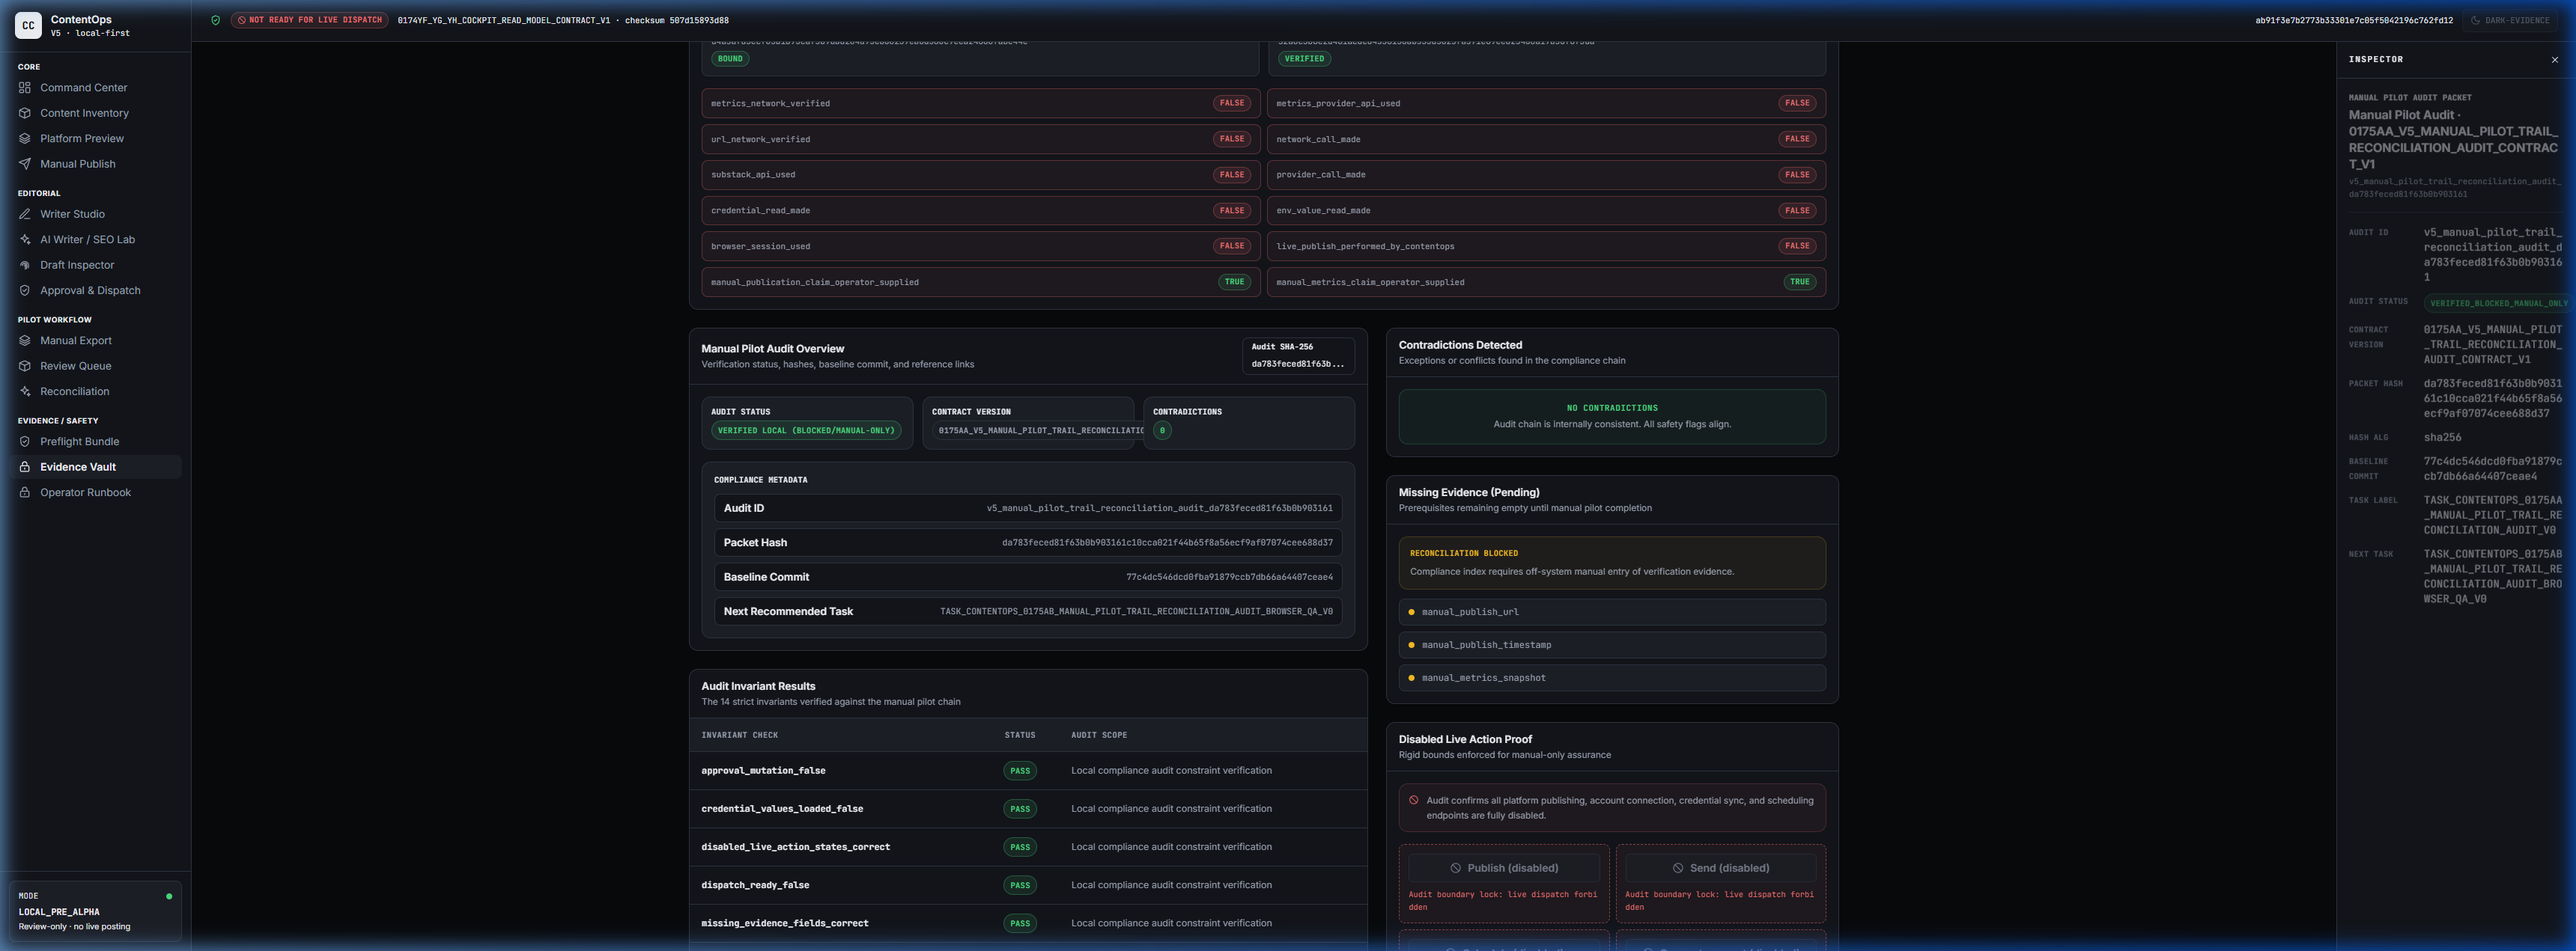
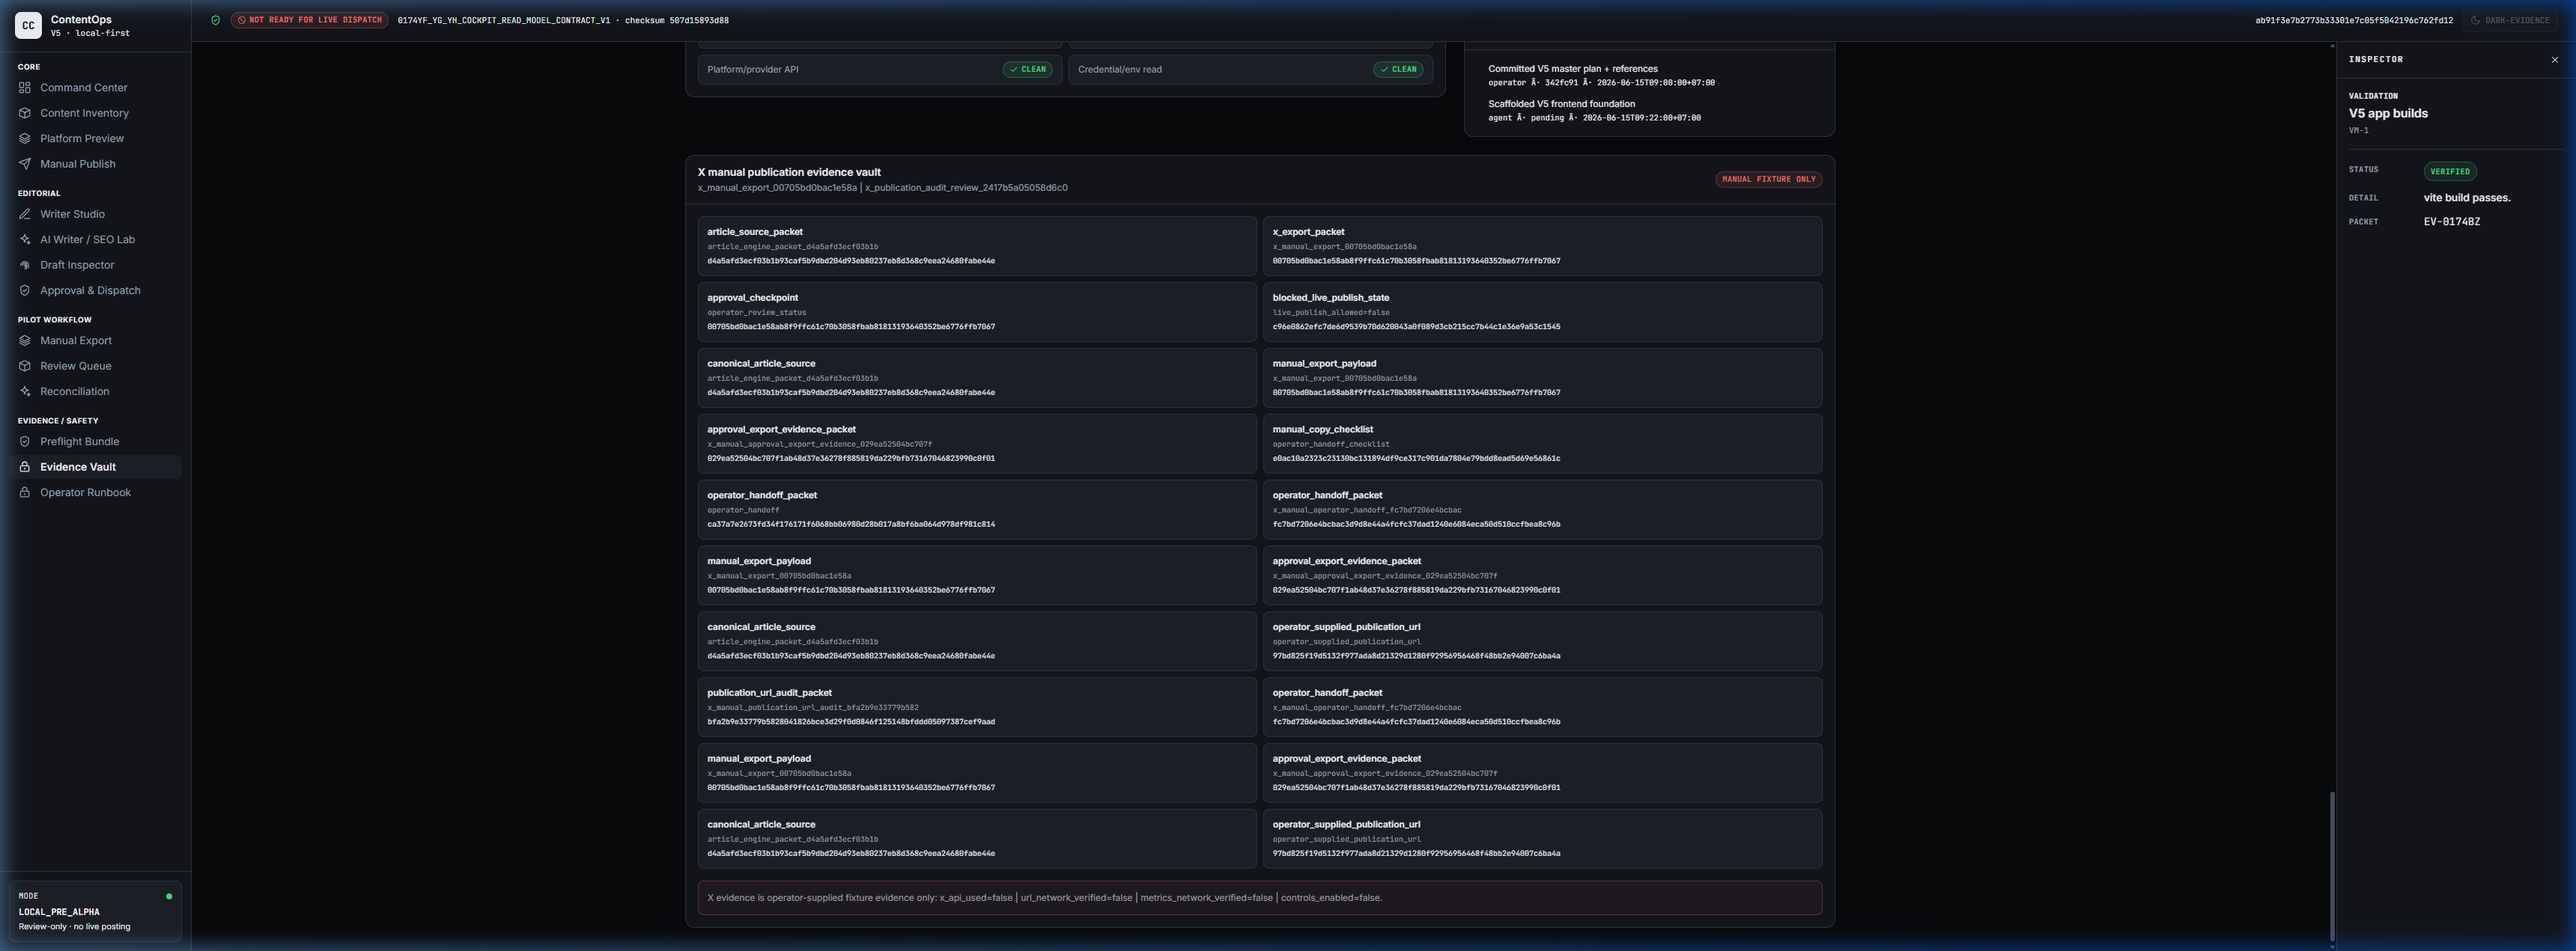
fix: repair X manual evidence QA artifacts

diff --git a/ui/contentops_v5/src/views/EvidenceVault.tsx b/ui/contentops_v5/src/views/EvidenceVault.tsx
@@ -654,7 +654,7 @@ export function EvidenceVault() {
 
       <Panel
         title="X manual publication evidence vault"
-        subtitle={`${xManualExportPacket.export_packet_id} ? ${xPublicationAuditReviewMetricsSummaryPacket.publication_audit_review_packet_id}`}
+        subtitle={`${xManualExportPacket.export_packet_id} | ${xPublicationAuditReviewMetricsSummaryPacket.publication_audit_review_packet_id}`}
         actions={<StatusChip status="blocked">manual fixture only</StatusChip>}
       >
         <div className="grid gap-2 md:grid-cols-2">
@@ -667,7 +667,7 @@ export function EvidenceVault() {
           ))}
         </div>
         <div className="mt-4 rounded-lg border border-status-blocked/30 bg-status-blocked/5 p-3 text-xs leading-relaxed text-fg-muted">
-          X evidence is operator-supplied fixture evidence only: x_api_used={String(xManualExportPacket.x_api_used)} ? url_network_verified={String(xManualPublicationUrlAuditImportPacket.url_network_verified)} ? metrics_network_verified={String(xPublicationAuditReviewMetricsSummaryPacket.metrics_network_verified)} ? controls_enabled={String(xManualOperatorHandoffPacket.enabled_publish_send_dispatch_approve_controls)}.
+          X evidence is operator-supplied fixture evidence only: x_api_used={String(xManualExportPacket.x_api_used)} | url_network_verified={String(xManualPublicationUrlAuditImportPacket.url_network_verified)} | metrics_network_verified={String(xPublicationAuditReviewMetricsSummaryPacket.metrics_network_verified)} | controls_enabled={String(xManualOperatorHandoffPacket.enabled_publish_send_dispatch_approve_controls)}.
         </div>
       </Panel>
     </div>

diff --git a/docs/browser_qa/contentops_v5_x_manual_publication_evidence_loop/README.md b/docs/browser_qa/contentops_v5_x_manual_publication_evidence_loop/README.md
@@ -1,0 +1,52 @@
+# ContentOps V5 X Manual Publication Evidence Loop Browser QA
+
+## Canonical target
+
+- Canonical UI target: `ui/contentops_v5/`
+- No V4 or standalone dashboard was targeted.
+- Local QA URL: `http://127.0.0.1:5173/`
+
+## Screenshot files
+
+- `manual_export_qa.png` - Manual Export shows the X manual publication evidence loop.
+- `approval_queue_qa.png` - Approval Queue shows X manual publication evidence pending review.
+- `evidence_vault_qa.png` - Evidence Vault shows the actual `X manual publication evidence vault` panel.
+- `x_manual_qa_recording.webp` - Local V5 browser QA recording artifact.
+
+## Required visual confirmations
+
+- Manual Export includes `X manual publication evidence loop`.
+- Approval Queue includes `X manual publication evidence pending review`.
+- Evidence Vault includes `X manual publication evidence vault`.
+- Evidence Vault shows at least one X packet ID/hash.
+- Evidence Vault safety line shows:
+  - `x_api_used=false`
+  - `url_network_verified=false`
+  - `metrics_network_verified=false`
+  - `controls_enabled=false`
+
+## Safety invariants confirmed
+
+- No X URL was opened, fetched, scraped, or network-verified.
+- No X API was used.
+- No browser session data was read.
+- No cookies were inspected.
+- No `localStorage` was inspected.
+- No `sessionStorage` was inspected.
+- No tokens were inspected.
+- No env values were read.
+- No credentials were read.
+- No live post was performed.
+- No dispatch was performed.
+- No schedule action was performed.
+- No send action was performed.
+- No approve action was performed.
+- No reply was performed.
+- No DM was performed.
+- No like was performed.
+- No repost was performed.
+- No quote-post was performed.
+
+## Scope note
+
+This QA evidence is for a local fixture/operator-supplied X manual publication evidence loop only. It does not imply public URL verification, provider readiness, platform authentication, live publishing, or any platform-side action.
